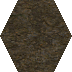
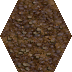
Update Wasteland terrain graphics using a Rocky Sands recolour

diff --git a/changelog.md b/changelog.md
@@ -14,6 +14,7 @@ Version 20240314.9000+dev:
 * Terrains:
   * Removed obsolete Earthy Rockbound Cave terrain.
   * Incorporated Event Flag overlays from AtS.
+  * Updated Wasteland terrain graphics.
 
 * User interface:
   * Updated `[bug]` UI.
